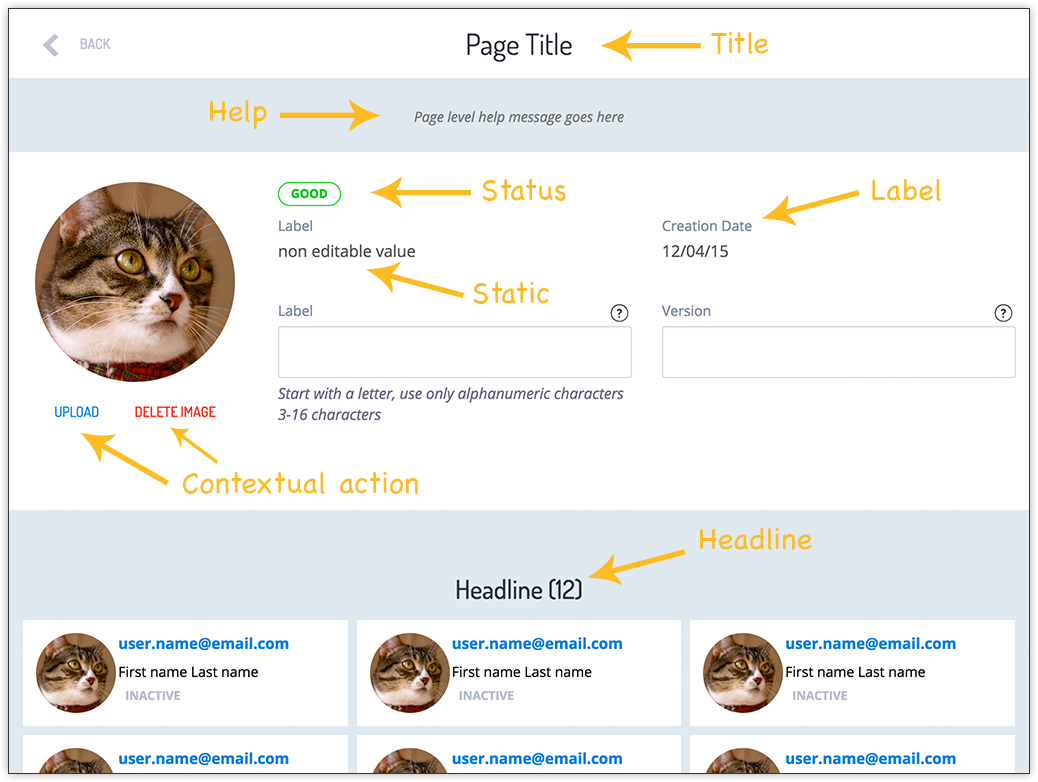
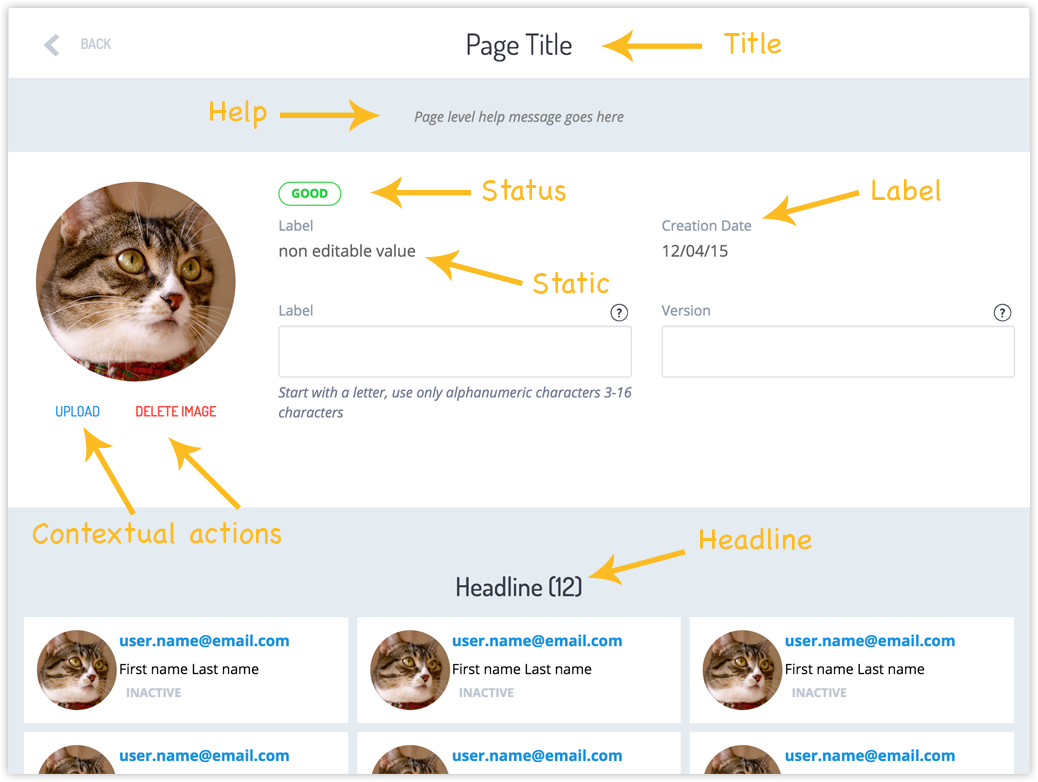
CCE-646: More guide text

diff --git a/src/guides/typography-and-colors/typography-and-colors.md b/src/guides/typography-and-colors/typography-and-colors.md
@@ -26,9 +26,20 @@ Usual User Experiences build using Techné use Typography and text size as a way
 
 Let's take a look at the screenshot bellow
 
-![Types of text](./images/types-of-text.png "Logo Title Text 1")
+![Types of text](./images/types-of-text.png "Types of text")
 
+As you can see we have different styles for different kinds of textual information:
+* **Title**: The page title is located on the [ActionBar](patterns/Action-Bar.html) and should communicate clearly what this particular page is about. This text is one of the most prominent on the page and it is visible at all times.
+* **Help**: The Page Help is displayed bellow the [ActionBar](patterns/Action-Bar.html) and explains very simple what the user can do on this page. In other words it complements the **Title** of the page. This text is styled as the rest of "help text" on Techné: in italics.
+* **Status**: The text displayed on the [Status Indicator](/components/Status-Indicators.html) is used to display the current status of a given element. Statuses can be: Active, Inactive; Published, Unpublished; Received, In Process, Shipped; or any other state that change through time. The Status Indicators are displayed surrounded by a round border and have a [distinctive color](/components/Status-Indicators.html) to give extra emphasis and draw the attention of the user.
+* **Static**: The static text is the common text you can use to display information that don't change. It has no text style and a contrasting color.
+* **Label**: Labels are always displayed along a [form element](components/Form-Elements.html), or static text. It reflects what the related form element or static text is about. The font size and style are a little muted so the user can focus on data input or reading the static text.
+* **Contextual Actions**: These actions are always displayed nearby the object to be modified. Style is all caps and different color to make them different from the normal text on screen.
+* **Headlines**: Headlines are used to give some hierarchy to the screen, separating the different parts. The font size is bigger so it have more visual weight on the overall page visual hierarchy.
 
+## Text visual hierarchy
+
+From the screenshot above you can see Text is used to give the page a Visual Hierarchy and at the same time to separate the different areas of the screen. The main text element used to accentuate the visual hierarchy are the Headlines.
 
 
 
